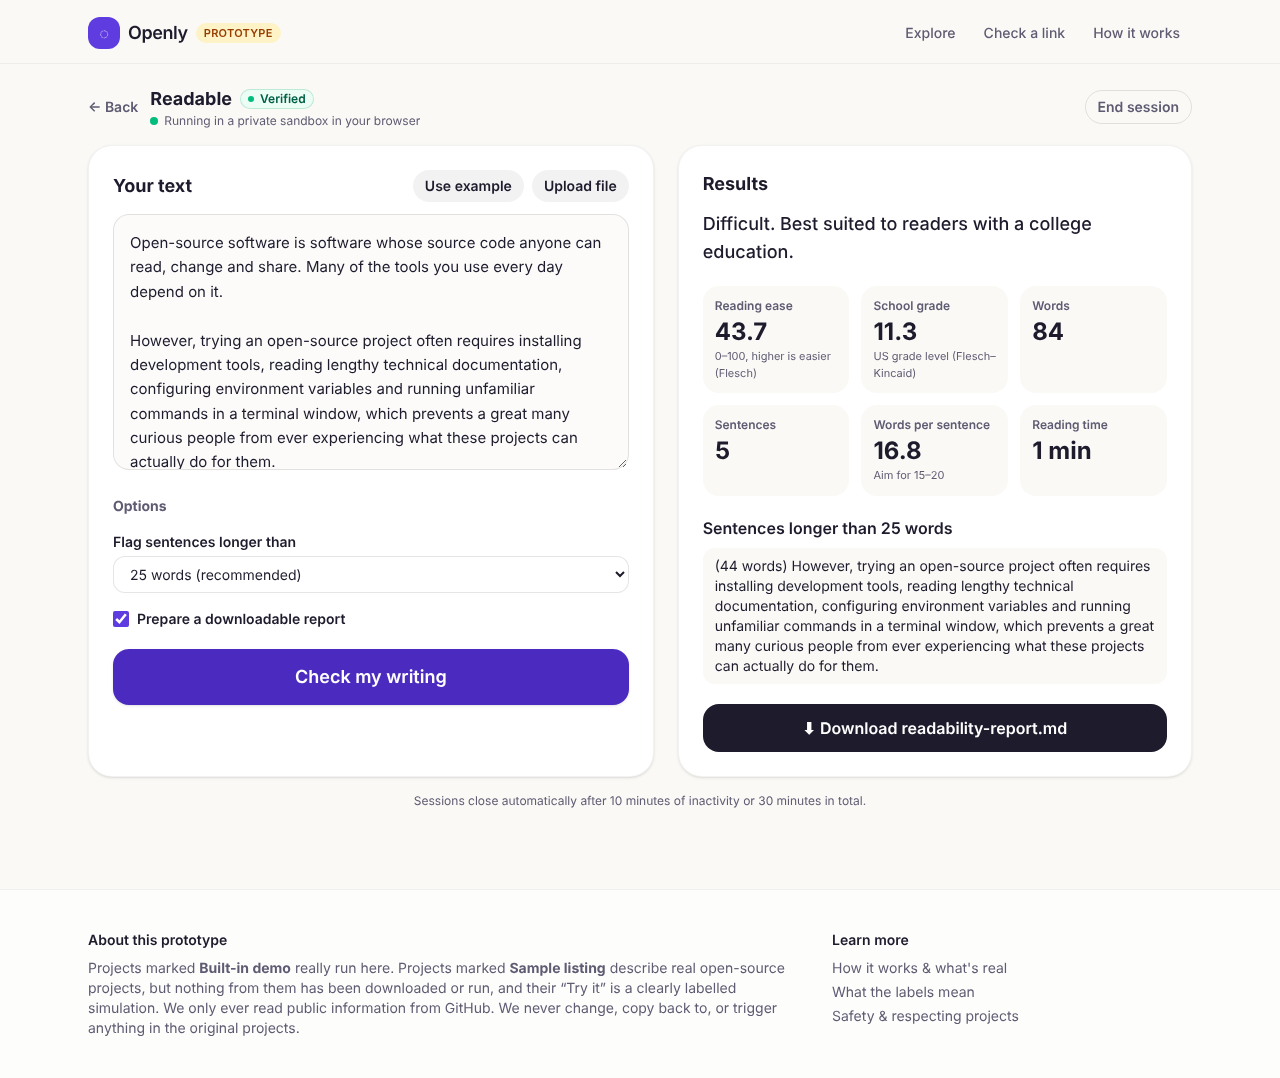
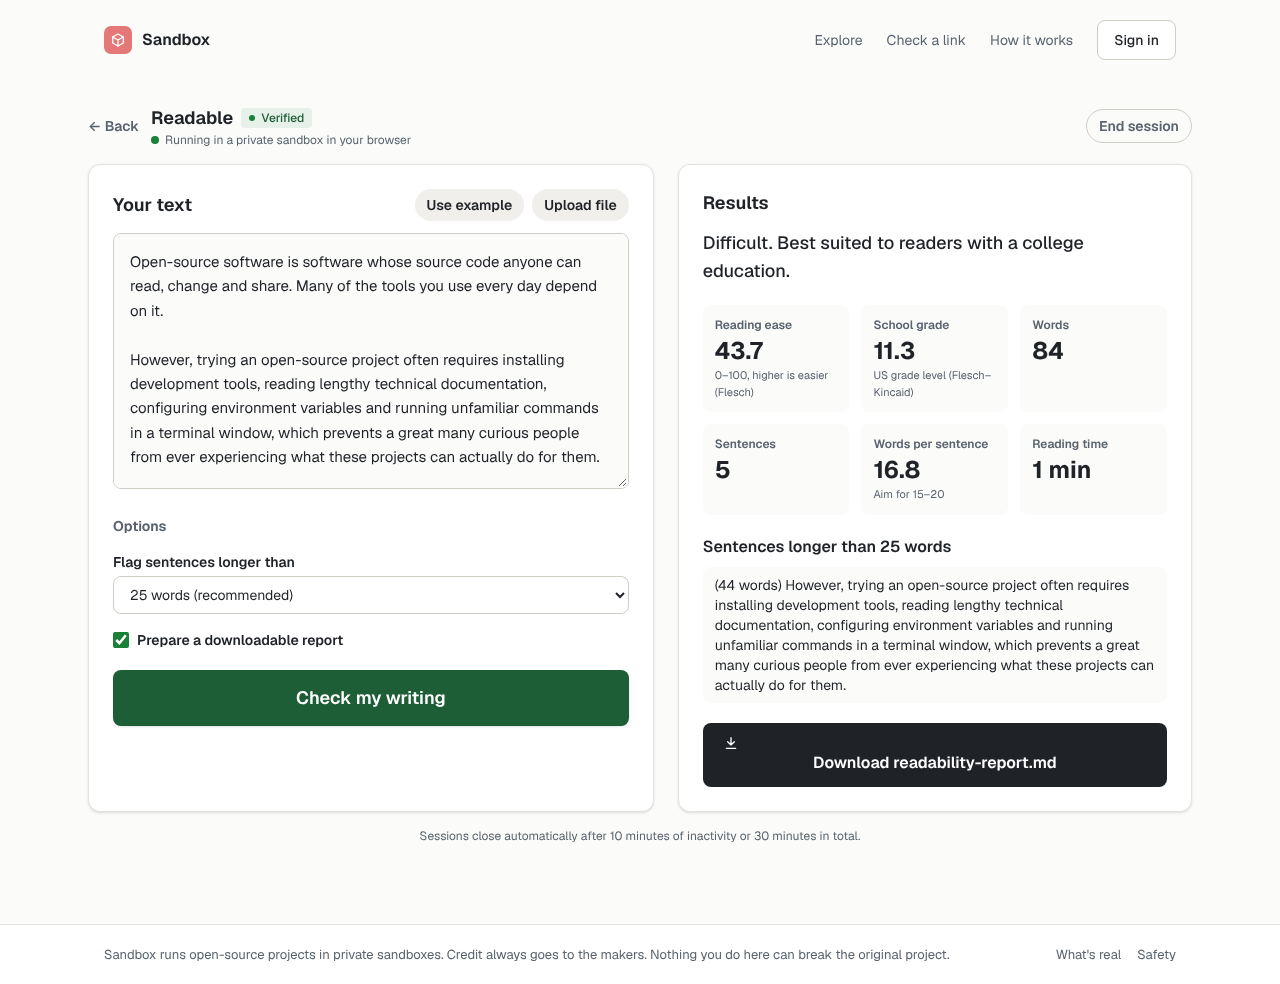
Update README, architecture notes and screenshots for the redesign
Claude-Session: https://claude.ai/code/session_01PZSAvSQouNNK2whn4Ny67S

diff --git a/README.md b/README.md
@@ -1,17 +1,19 @@
-# Openly: a no-code sandbox for open source
+# Sandbox: try open source without installing anything
 
-A working prototype that helps people with little or no coding experience **discover, understand and try** open-source projects without touching GitHub, a terminal or an installer.
+A working prototype that helps people with little or no coding experience **discover, understand, try and remix** open-source projects without touching GitHub, a terminal or an installer.
 
-> Discover → Understand → Try → Explore
+> Gallery → Project page → Workspace
 
-![Home page](docs/screenshots/home.png)
+![Gallery](docs/screenshots/gallery.png)
+
+The visual design follows the brief in [docs/design/UI_BRIEF.md](docs/design/UI_BRIEF.md) (reference screens alongside it).
 
 ## Quick start
 
 ```bash
 npm install
 npm run dev          # http://localhost:3000
-npm test             # 108 unit tests
+npm test             # 120 unit tests
 npm run typecheck
 npm run build && npm start
 ```
@@ -24,12 +26,14 @@ The product's core principle is to hide unnecessary technical complexity without
 
 | Feature | Status |
 | --- | --- |
-| Browse, search and read project pages | **Real.** Local catalog of 21 projects |
+| Browse, search and read project pages | **Real.** Local catalog of 22 projects |
 | Natural-language search | **Real keyword search** (stop words, stemming, synonyms). Not AI, and the UI says so |
 | Built-in demos: Flow Fields, Palette Pick, Quick Chart (web apps) | **Really run** in a sandboxed iframe (`allow-scripts`, opaque origin, strict CSP) |
 | Built-in demos: Readable, Markdown to Document (command-line tools turned into forms) | **Really run** through server-side tool adapters |
 | "Check a GitHub link" analysis | **Real, read-only.** Reads public metadata and config files, then classifies the project. Nothing is executed |
-| "Try it" for GitHub sample listings | **Simulated** and labelled as such everywhere. No real sandbox is connected |
+| "Open in sandbox" for GitHub sample listings | **Simulated** and labelled as such everywhere. No real sandbox is connected |
+| Workspace (Bluesky app, "Profiles, but more like Mastodon") | **Real interactions on a pretend profile** drawn by Sandbox, not the real app. "Share suggestion" only marks the draft as shared; nothing is sent |
+| Live cursors and "people looking at this page" | **Demo presence feed** (`MockPresenceProvider`), marked "demo" in the UI. The privacy controls are real: with "Show my cursor" off, pointer updates are never handed to the transport |
 | AI-assisted setup | **Interface only.** No model is connected, and the UI says so |
 
 Only built-in demos can carry the **Verified** status. A test enforces this rule.
@@ -38,8 +42,10 @@ Only built-in demos can carry the **Verified** status. A test enforces this rule
 
 | | |
 | --- | --- |
-| ![Real web app in sandbox](docs/screenshots/launch-webapp.png) | ![CLI tool as a form](docs/screenshots/tool-form.png) |
-| ![Simulated launch](docs/screenshots/simulated-complete.png) | ![Friendly failure](docs/screenshots/failure.png) |
+| ![Project page](docs/screenshots/project-page.png) | ![Cursor privacy popover](docs/screenshots/cursor-privacy.png) |
+| ![Workspace canvas](docs/screenshots/workspace.png) | ![Workspace changes](docs/screenshots/workspace-changes.png) |
+| ![Built-in demo running](docs/screenshots/built-in-demo.png) | ![Command-line tool as a form](docs/screenshots/tool-form.png) |
+| ![Friendly failure](docs/screenshots/friendly-failure.png) | ![Gallery on a phone](docs/screenshots/gallery-mobile.png) |
 
 ## Protecting the projects we host
 

diff --git a/docs/ARCHITECTURE.md b/docs/ARCHITECTURE.md
@@ -19,6 +19,8 @@ src/
     sessions/     5. Session lifecycle: lifetime, idle timeout, cleanup, diagnostics
     tools/        CLI→form adapters (declared inputs/options only)
     ai/           6. SetupAgent interface (disabled implementation)
+    workspace/    Workspace scenarios (settings, presets, diff text) + pure state logic
+    presence/     PresenceProvider contract, mock provider, cursor privacy prefs
     safety/       Workflow protection guards shared by all of the above
 public/demos/   Self-contained built-in web demos
 ```
@@ -40,6 +42,13 @@ public/demos/   Self-contained built-in web demos
 **Sessions.** `SessionManager` validates the `SandboxPolicy` when it is constructed. It caps concurrent sessions, ends sessions after the idle timeout (each poll counts as a heartbeat) or the hard lifetime, calls `terminate`, and forgets ended sessions after a retention window. The public view never includes diagnostics. Sessions are held in memory on `globalThis`; in production this would move to Redis or a database.
 
 **AI setup agent.** `SetupAgent` exposes `proposeSetup`, `explainFailure` and `proposeInterface`. An agent may only act through `AgentSandboxTools` (`readFile`, `listFiles`, `exec` inside one sandbox). Its proposals are checked by `assertCommandRespectsWorkflows` and by the sandbox policy before anything runs. README and issue text is untrusted and may contain prompt injection.
+
+## UI structure
+
+- Tokens live once in `src/app/globals.css` (`@theme`); components use token classes (`bg-surface`, `text-muted`, `bg-cat-images-bg`...), not raw hex.
+- Routes: `app/(site)` pages share the site header and footer; `app/(focus)` holds the project page and workspace, which draw their own headers.
+- The workspace shell (`components/workspace/Workspace.tsx`) is generic. A new scenario adds a file under `lib/workspace/` (settings, groups, presets, diff text) and registers a preview component in `PREVIEWS`. The project's catalog entry points at it with `workspace: "<scenario id>"`.
+- Presence: `PresenceRoot` owns a `PresenceProvider` and the cursor preferences. To go live, implement the provider over a real transport (WebSocket, Liveblocks, Yjs awareness) and select it in `PresenceRoot`. The contract requires that nothing is sent while sharing is off.
 
 ## Path to real execution
 
